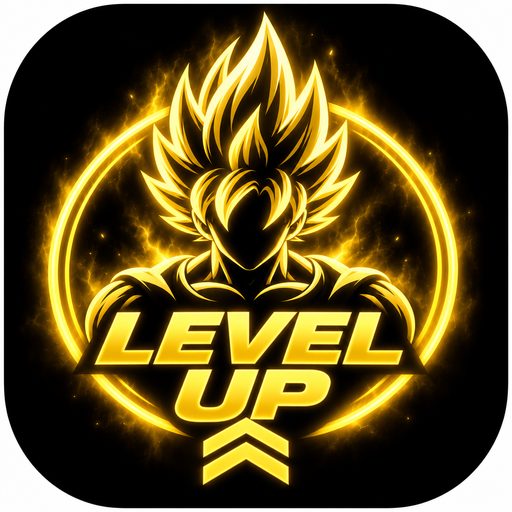
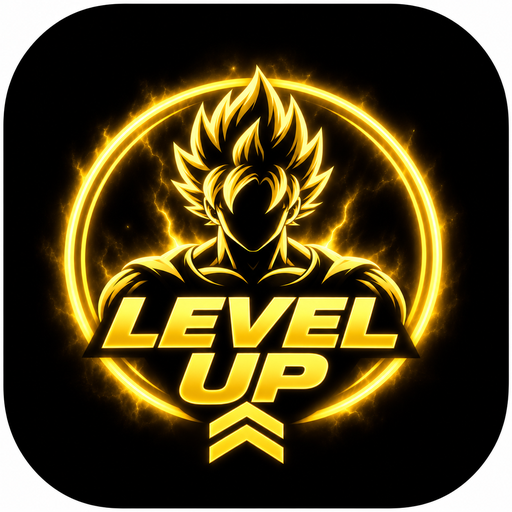
Add files via upload

diff --git a/index.html b/index.html
@@ -696,6 +696,25 @@ button.active,.tab-btn.active{border-color:var(--accent)!important;box-shadow:0 
   }
 }
 
+
+/* V48 POWER-UP SPLASH */
+#powerSplash{position:fixed;inset:0;z-index:99999;overflow:hidden;display:flex;align-items:center;justify-content:center;background:#000;opacity:1;visibility:visible;transition:opacity .55s ease,visibility .55s ease}
+#powerSplash.splash-hide{opacity:0;visibility:hidden;pointer-events:none}
+#powerSplash .splash-core{width:min(78vw,360px);text-align:center;position:relative;z-index:4}
+#powerSplash .splash-logo{width:100%;height:auto;display:block;margin:0 auto;filter:drop-shadow(0 0 14px rgba(255,202,0,.58));animation:splashPulse 1.1s ease-in-out infinite alternate}
+#powerSplash .splash-title{margin-top:16px;color:#ffd52d;font-weight:950;font-size:20px;letter-spacing:.16em;text-transform:uppercase;text-shadow:0 0 12px rgba(255,200,0,.72)}
+#powerSplash .splash-sub{margin-top:7px;color:#c9b76f;font-size:11px;font-weight:800;letter-spacing:.12em;text-transform:uppercase}
+#powerSplash .splash-track{width:84%;height:5px;margin:16px auto 0;border-radius:999px;background:rgba(255,216,64,.16);overflow:hidden}
+#powerSplash .splash-bar{width:0%;height:100%;border-radius:inherit;background:linear-gradient(90deg,#9d7200,#ffd32a,#fff3a0,#ffd32a);box-shadow:0 0 12px rgba(255,211,42,.85)}
+#powerSplash .bolt{position:absolute;z-index:2;width:4px;height:46vh;opacity:0;background:linear-gradient(to bottom,transparent,#ffe35c 18%,#fff 46%,#ffc400 72%,transparent);box-shadow:0 0 10px #ffd000,0 0 26px #ffb700;clip-path:polygon(42% 0,100% 0,62% 43%,93% 43%,17% 100%,38% 55%,6% 55%)}
+#powerSplash .b1{left:11%;top:-3%;transform:rotate(-13deg);animation:boltFlash 1.55s .15s infinite}
+#powerSplash .b2{right:10%;top:7%;transform:rotate(17deg);animation:boltFlash 1.75s .72s infinite}
+#powerSplash .b3{left:27%;bottom:-12%;height:35vh;transform:rotate(8deg);animation:boltFlash 1.9s 1.12s infinite}
+#powerSplash .b4{right:25%;bottom:-10%;height:33vh;transform:rotate(-9deg);animation:boltFlash 1.7s .38s infinite}
+@keyframes splashPulse{from{transform:scale(.965);filter:drop-shadow(0 0 8px rgba(255,202,0,.42))}to{transform:scale(1.015);filter:drop-shadow(0 0 22px rgba(255,202,0,.82))}}
+@keyframes boltFlash{0%,78%,100%{opacity:0}80%{opacity:.18}82%{opacity:1}85%{opacity:.28}88%{opacity:.9}92%{opacity:0}}
+@media(prefers-reduced-motion:reduce){#powerSplash .splash-logo,#powerSplash .bolt{animation:none!important}}
+
 </style>
 <style id="hamstring-final-image-fix">
 /* Hamstring glossary image: full bodies, no crop, no oversized white frame. */
@@ -819,8 +838,12 @@ html{background:#050b12}.wrap{padding-bottom:96px!important}.card{border:1px sol
   }
 }
 </style>
-</head><body>
-<header class="levelup-header"><div class="levelup-brand"><img src="assets/level_up_logo_gold_faceless_FINAL_v47.png" alt="" class="levelup-mark"><div class="levelup-wordmark"><span>LEVEL</span><strong>UP</strong></div></div></header>
+</head><body><div id="powerSplash" aria-label="Level Up loading screen">
+<div class="bolt b1"></div><div class="bolt b2"></div><div class="bolt b3"></div><div class="bolt b4"></div>
+<div class="splash-core"><img class="splash-logo" src="assets/level_up_logo_gold_compact_FINAL_v48.png" alt="Level Up">
+<div class="splash-title">Powering Up</div><div class="splash-sub">Loading your progression</div>
+<div class="splash-track"><div class="splash-bar" id="splashBar"></div></div></div></div>
+<header class="levelup-header"><div class="levelup-brand"><img src="assets/level_up_logo_gold_compact_FINAL_v48.png" alt="" class="levelup-mark"><div class="levelup-wordmark"><span>LEVEL</span><strong>UP</strong></div></div></header>
 <div class="wrap">
 <div id="progressView" class="tab-view active">
   <div class="card hero"><div class="eyebrow">Current fitness level</div><div id="currentChar" class="big">Hawkeye</div><div id="heroMedia"><img src="assets/01_hawkeye_v36.jpeg" alt="Hawkeye" class="demo-image-clean char-image show"></div><div id="currentMeta" class="meta">Level 1 • Foundation</div><div class="progress"><div id="bar" class="bar"></div></div><div id="nextBox" class="next-level-card"><h3>Next Level</h3><div>Enter your current bests, assessments and tap Calculate Rankings.</div></div></div>
@@ -901,5 +924,17 @@ function renderStatuses(d){keys.forEach(k=>{const lv=strengthLevel(k,d),el=docum
 function renderRankings(overall,d){document.querySelectorAll('.rank-card').forEach(el=>{const lv=Number(el.dataset.rankLevel),st=el.querySelector('.rank-state');el.classList.toggle('current',lv===overall);if(lv<overall){st.textContent='✓ UNLOCKED';st.className='rank-state done'}else if(lv===overall){st.textContent='CURRENT';st.className='rank-state current'}else{st.textContent='LOCKED';st.className='rank-state locked'}});document.querySelectorAll('.level-card[data-level]').forEach(el=>{const lv=Number(el.dataset.level);el.classList.toggle('completed',lv<=overall);el.classList.toggle('current',lv===overall)});const vals={};keys.forEach(k=>vals[k]=strengthLevel(k,d));vals.chin=chinLevel(d);vals.cardio=cardioLevel(d);vals.assess=assessLevel(d);exerciseSummary.innerHTML=Object.entries(vals).map(([k,lv])=>`<div class="mini"><span>${labels[k]}</span><b>${lv?levels[Math.min(lv,30)-1].character:'Below Level 1'}</b><em>${lv?'Level '+lv:'Not ranked'}</em></div>`).join('')}
 function calculate(){const d=readData();saveData(d);let overall=highestOverall(d);if(overall<1)overall=1;renderHero(overall,d);renderStatuses(d);renderRankings(overall,d);calcStatus.textContent='Rankings updated ✓';setTimeout(()=>calcStatus.textContent='',1400)}
 calcBtn.onclick=calculate;loadData();setMode(mode);setCardioMode(cardioMode);try{switchAppTab(({demos:'glossary'}[sessionStorage.getItem('fitnessRPGActiveTab')]||sessionStorage.getItem('fitnessRPGActiveTab'))||'progress')}catch(e){switchAppTab('progress')}calculate();
+
+/* V48: 5s first launch after update, 2.5s normal launches */
+(function(){
+ const splash=document.getElementById('powerSplash'),bar=document.getElementById('splashBar');
+ if(!splash)return;
+ const ver='v48'; let first=true;
+ try{first=localStorage.getItem('levelUpSplashVersion')!==ver}catch(e){}
+ const duration=first?5000:2500;
+ if(bar){bar.style.transition='width '+(duration-300)+'ms cubic-bezier(.22,.7,.2,1)';requestAnimationFrame(()=>requestAnimationFrame(()=>bar.style.width='100%'))}
+ setTimeout(()=>{splash.classList.add('splash-hide');try{localStorage.setItem('levelUpSplashVersion',ver)}catch(e){}setTimeout(()=>splash.remove(),650)},duration);
+})();
+
 if('serviceWorker' in navigator)window.addEventListener('load',()=>navigator.serviceWorker.register('./service-worker.js'));
 </script></body></html>

diff --git a/service-worker.js b/service-worker.js
@@ -1,5 +1,5 @@
-const CACHE='level-up-fitness-v47-gold-faceless-logo-20260904';
+const CACHE='level-up-fitness-v48-power-splash-20260905';
 const PREFIX='level-up-fitness-';
-self.addEventListener('install',e=>{self.skipWaiting();e.waitUntil(caches.open(CACHE).then(c=>c.addAll(['./','./index.html','./manifest.webmanifest','./icon-192.png','./icon-512.png','./apple-touch-icon.png','./assets/level_up_logo_gold_faceless_FINAL_v47.png'])))});
+self.addEventListener('install',e=>{self.skipWaiting();e.waitUntil(caches.open(CACHE).then(c=>c.addAll(['./','./index.html','./manifest.webmanifest','./icon-192.png','./icon-512.png','./apple-touch-icon.png','./assets/level_up_logo_gold_compact_FINAL_v48.png'])))});
 self.addEventListener('activate',e=>{e.waitUntil(caches.keys().then(keys=>Promise.all(keys.filter(k=>k.startsWith(PREFIX)&&k!==CACHE).map(k=>caches.delete(k)))).then(()=>self.clients.claim()))});
 self.addEventListener('fetch',e=>{if(e.request.method!=='GET')return;e.respondWith(fetch(e.request).then(r=>{const copy=r.clone();caches.open(CACHE).then(c=>c.put(e.request,copy));return r}).catch(()=>caches.match(e.request).then(r=>r||caches.match('./index.html'))))});
